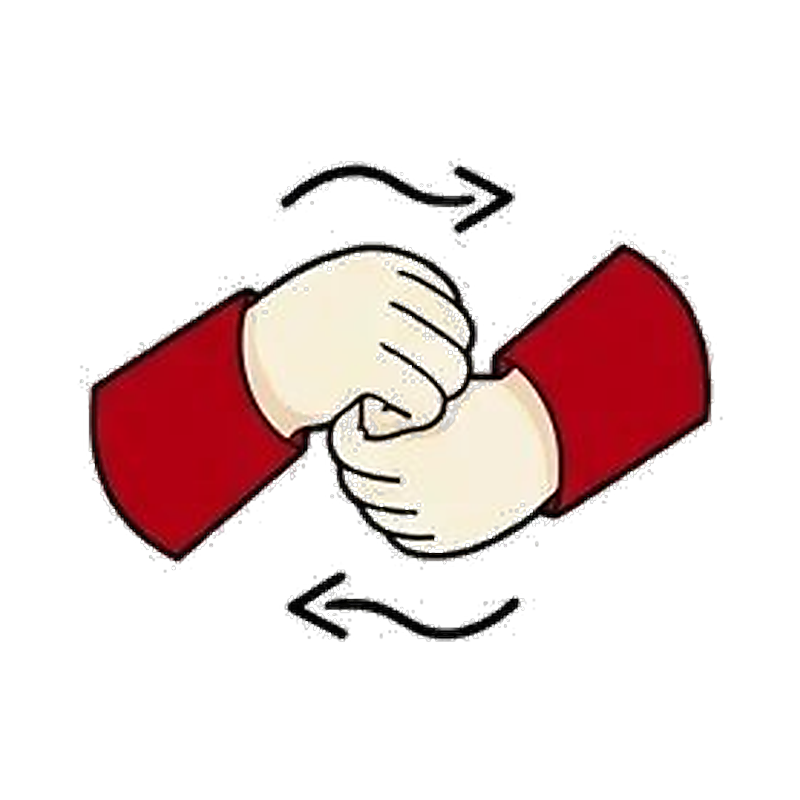
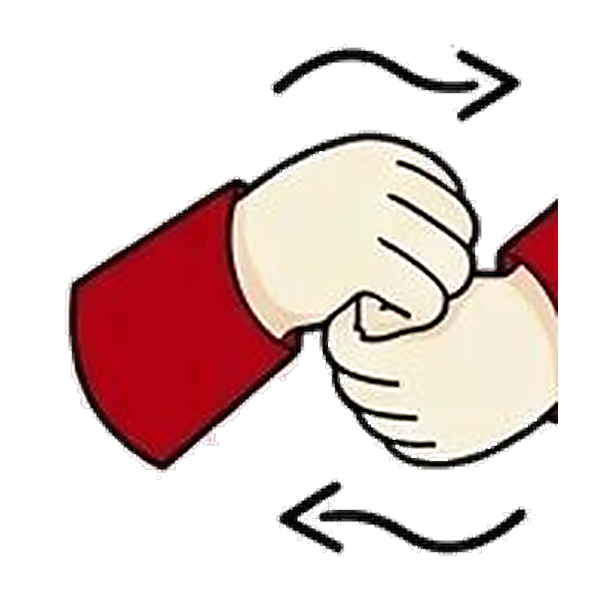
feat(dictionary): improve dictionary UI with clean edtech design, HD signs without text crop, and modern upcoming modules

Changed region(s): [[0.09, 0.06, 0.93, 0.93]]

diff --git a/src/pages/DashboardPage.jsx b/src/pages/DashboardPage.jsx
@@ -3238,37 +3238,36 @@ const DashboardPage = () => {
           {activeMenu === 'kamus' && (
             <div className="flex-1 overflow-y-auto p-4 sm:p-8 pb-28">
               <div className="max-w-5xl mx-auto w-full space-y-6">
-                {/* Header Banner Kamus */}
+                {/* Header Banner Kamus Modern & Clean */}
                 <motion.div
                   initial={{ opacity: 0, y: 12 }}
                   animate={{ opacity: 1, y: 0 }}
-                  className="bg-white/95 backdrop-blur-md border-2 border-[#EBEBEB] rounded-[32px] p-6 sm:p-8 shadow-sm flex flex-col md:flex-row items-center justify-between gap-6"
+                  className="bg-white/95 backdrop-blur-md border border-gray-200/90 rounded-3xl p-6 sm:p-8 shadow-[0_10px_30px_rgba(0,0,0,0.04)] flex flex-col md:flex-row items-center justify-between gap-6"
                 >
                   <div className="space-y-2 text-center md:text-left">
-                    <span className="px-3 py-1 rounded-full bg-[#FFF0F0] text-xs font-black text-[#E02424] uppercase tracking-wider flex items-center gap-1.5 w-fit">
+                    <div className="inline-flex items-center gap-2 px-3 py-1 rounded-full bg-rose-50 border border-rose-100 text-xs font-black text-[#E02424] tracking-wide">
                       <svg className="w-3.5 h-3.5 text-[#E02424]" fill="none" stroke="currentColor" viewBox="0 0 24 24">
                         <path strokeLinecap="round" strokeLinejoin="round" strokeWidth="2" d="M12 6.253v13m0-13C10.832 5.477 9.246 5 7.5 5S4.168 5.477 3 6.253v13C4.168 18.477 5.754 18 7.5 18s3.332.477 4.5 1.253m0-13C13.168 5.477 14.754 5 16.5 5c1.747 0 3.332.477 4.5 1.253v13C19.832 18.477 18.247 18 16.5 18c-1.746 0-3.332.477-4.5 1.253" />
                       </svg>
                       <span>Ensiklopedia Visual BISINDO</span>
-                    </span>
-                    <h1 className="text-2xl sm:text-3xl font-black text-[#2B2B2B] tracking-tight">
+                    </div>
+                    <h1 className="text-2xl sm:text-3xl font-black text-gray-900 tracking-tight">
                       Kamus Bentuk Tangan BISINDO
                     </h1>
-                    <p className="text-xs sm:text-sm text-gray-500 font-bold max-w-xl">
-                      Kumpulan seluruh gestur dan ejaan bahasa isyarat dari Level 1 hingga Level 6.
-                      Pelajari detail bentuk jari, makna, dan praktikkan langsung ke kamera!
+                    <p className="text-xs sm:text-sm text-gray-500 font-bold max-w-xl leading-relaxed">
+                      Eksplorasi gestur, ejaan abjad jari, dan sapaan bahasa isyarat standar BISINDO dengan ilustrasi beresolusi tinggi yang tajam dan presisi.
                     </p>
                   </div>
 
                   {/* Input Pencarian Kata / Huruf */}
-                  <div className="w-full md:w-72">
+                  <div className="w-full md:w-80">
                     <div className="relative">
                       <input
                         type="text"
                         value={dictionarySearch}
                         onChange={(e) => setDictionarySearch(e.target.value)}
                         placeholder="Cari huruf atau isyarat..."
-                        className="w-full pl-10 pr-4 py-3 rounded-2xl bg-[#F7F7F7] border-2 border-[#EAEAEA] focus:border-[#E02424] text-xs font-bold text-gray-800 placeholder-gray-400 outline-none transition"
+                        className="w-full pl-10 pr-4 py-3 rounded-2xl bg-gray-50/80 border border-gray-200 focus:bg-white focus:border-[#E02424] text-xs font-bold text-gray-800 placeholder-gray-400 outline-none transition shadow-inner"
                       />
                       <span className="absolute left-3.5 top-1/2 -translate-y-1/2 text-gray-400">
                         <svg className="w-4 h-4" fill="none" stroke="currentColor" viewBox="0 0 24 24">
@@ -3279,8 +3278,8 @@ const DashboardPage = () => {
                   </div>
                 </motion.div>
 
-                {/* Tabs Modul Level 1 - 6 Tanpa Emoticon / Emoji */}
-                <div className="flex items-center gap-2 overflow-x-auto pb-2 scrollbar-none">
+                {/* Segmented Filter Modul Level 1 - 6 */}
+                <div className="bg-white/80 backdrop-blur-md border border-gray-200/80 p-2 rounded-2xl flex items-center gap-2 overflow-x-auto scrollbar-none shadow-xs">
                   {DICTIONARY_MODULES.map((mod) => {
                     const isSelected = selectedDictModuleId === mod.id && !dictionarySearch
                     return (
@@ -3290,16 +3289,24 @@ const DashboardPage = () => {
                           setSelectedDictModuleId(mod.id)
                           setDictionarySearch('')
                         }}
-                        className={`px-4 py-2.5 rounded-2xl text-xs font-black shrink-0 flex items-center gap-2 transition cursor-pointer border-2 relative ${
+                        className={`px-4 py-2.5 rounded-xl text-xs font-black shrink-0 flex items-center gap-2 transition cursor-pointer ${
                           isSelected
-                            ? 'bg-[#E02424] text-white border-[#E02424] shadow-md shadow-red-200'
-                            : 'bg-white/90 text-gray-600 border-[#EAEAEA] hover:border-gray-300'
+                            ? 'bg-[#E02424] text-white shadow-sm'
+                            : 'text-gray-600 hover:text-gray-900 hover:bg-gray-100/70'
                         }`}
                       >
                         <span>{mod.badge}</span>
-                        {mod.isComingSoon && (
-                          <span className="text-[9px] font-black uppercase px-1.5 py-0.5 rounded-md bg-amber-400 text-amber-950 ml-1">
-                            Soon
+                        {mod.isComingSoon ? (
+                          <span className={`text-[10px] font-black uppercase px-2 py-0.5 rounded-md ${
+                            isSelected ? 'bg-white/20 text-white' : 'bg-amber-100 text-amber-800'
+                          }`}>
+                            Segera
+                          </span>
+                        ) : (
+                          <span className={`text-[10px] font-bold px-2 py-0.5 rounded-md ${
+                            isSelected ? 'bg-white/20 text-white' : 'bg-gray-100 text-gray-500'
+                          }`}>
+                            {mod.entries.length} Isyarat
                           </span>
                         )}
                       </button>
@@ -3307,23 +3314,28 @@ const DashboardPage = () => {
                   })}
                 </div>
 
-                {/* Banner Coming Soon Khusus Modul 3 - 6 */}
+                {/* Banner Status Modul Coming Soon */}
                 {!dictionarySearch && selectedDictModuleId >= 3 && (
                   <motion.div
-                    initial={{ opacity: 0, scale: 0.98 }}
-                    animate={{ opacity: 1, scale: 1 }}
-                    className="w-full bg-white/95 backdrop-blur-md border border-gray-200 rounded-3xl p-6 sm:p-7 text-center shadow-xs"
+                    initial={{ opacity: 0, y: 8 }}
+                    animate={{ opacity: 1, y: 0 }}
+                    className="w-full bg-gradient-to-r from-slate-900 via-gray-900 to-slate-900 text-white rounded-3xl p-6 sm:p-7 shadow-sm border border-gray-800 flex flex-col sm:flex-row items-center justify-between gap-4"
                   >
-                    <div className="inline-flex items-center gap-2 px-3 py-1 rounded-full bg-gray-100 text-gray-700 font-black text-xs uppercase tracking-wider mb-2">
-                      <span className="w-2 h-2 rounded-full bg-amber-500 animate-pulse" />
-                      <span>Tahap Pengembangan</span>
+                    <div className="space-y-1.5 text-center sm:text-left">
+                      <div className="inline-flex items-center gap-2 px-3 py-1 rounded-full bg-white/10 text-amber-300 font-black text-[11px] uppercase tracking-wider">
+                        <span className="w-2 h-2 rounded-full bg-amber-400 animate-pulse" />
+                        <span>Koleksi Mendatang • {DICTIONARY_MODULES.find(m => m.id === selectedDictModuleId)?.title}</span>
+                      </div>
+                      <h3 className="text-lg sm:text-xl font-black text-white">
+                        Silabus & Kosakata Sedang Dipersiapkan
+                      </h3>
+                      <p className="text-xs text-gray-300 font-medium max-w-xl">
+                        Daftar materi berikut dirancang bersama mitra pengajar Tuli. Panduan animasi visual 3D dan kartu isyarat interaktif akan dirilis secara bertahap.
+                      </p>
                     </div>
-                    <h3 className="text-lg sm:text-xl font-black text-gray-800">
-                      Materi Modul {selectedDictModuleId} Sedang Disiapkan
-                    </h3>
-                    <p className="text-xs font-bold text-gray-500 max-w-lg mx-auto mt-1.5 leading-relaxed">
-                      Koleksi gestur tangan interaktif untuk modul ini akan segera dirilis. Kamu dapat melihat daftar kosakata di bawah sebagai referensi awal pembelajaran.
-                    </p>
+                    <div className="shrink-0 px-4 py-2 rounded-xl bg-white/10 border border-white/20 text-xs font-bold text-gray-200">
+                      Rilis Mendatang
+                    </div>
                   </motion.div>
                 )}
 
@@ -3339,7 +3351,7 @@ const DashboardPage = () => {
                           en.word.toLowerCase().includes(q) ||
                           en.desc.toLowerCase().includes(q)
                         ) {
-                          activeEntries.push({ ...en, moduleBadge: mod.badge })
+                          activeEntries.push({ ...en, moduleBadge: mod.badge, isComingSoon: mod.isComingSoon })
                         }
                       })
                     })
@@ -3347,20 +3359,24 @@ const DashboardPage = () => {
                     const curMod =
                       DICTIONARY_MODULES.find((m) => m.id === selectedDictModuleId) ||
                       DICTIONARY_MODULES[0]
-                    activeEntries = curMod.entries.map((en) => ({ ...en, moduleBadge: curMod.badge }))
+                    activeEntries = curMod.entries.map((en) => ({
+                      ...en,
+                      moduleBadge: curMod.badge,
+                      isComingSoon: curMod.isComingSoon,
+                    }))
                   }
 
                   if (activeEntries.length === 0) {
                     return (
-                      <div className="bg-white/90 rounded-3xl p-12 text-center border-2 border-[#EBEBEB]">
+                      <div className="bg-white/95 rounded-3xl p-12 text-center border border-gray-200/90 shadow-sm">
                         <div className="w-12 h-12 rounded-2xl bg-gray-100 flex items-center justify-center text-gray-400 mx-auto mb-3">
                           <svg className="w-6 h-6" fill="none" stroke="currentColor" viewBox="0 0 24 24">
                             <path strokeLinecap="round" strokeLinejoin="round" strokeWidth="2" d="M21 21l-6-6m2-5a7 7 0 11-14 0 7 7 0 0114 0z" />
                           </svg>
                         </div>
-                        <h3 className="text-base font-black text-gray-700">Tidak ada isyarat ditemukan</h3>
+                        <h3 className="text-base font-black text-gray-800">Tidak ada isyarat ditemukan</h3>
                         <p className="text-xs text-gray-400 font-bold mt-1">
-                          Coba gunakan kata kunci pencarian lain.
+                          Coba gunakan kata kunci pencarian yang lain.
                         </p>
                       </div>
                     )
@@ -3369,41 +3385,39 @@ const DashboardPage = () => {
                   return (
                     <div className="grid grid-cols-2 sm:grid-cols-3 md:grid-cols-4 gap-4">
                       {activeEntries.map((item, idx) => {
-                        const isSecretComingSoon = !dictionarySearch && selectedDictModuleId >= 3
+                        const isSecretComingSoon = item.isComingSoon
 
                         return (
                           <motion.div
                             key={`${item.letter}-${idx}`}
-                            initial={{ opacity: 0, scale: 0.95 }}
-                            animate={{ opacity: 1, scale: 1 }}
+                            initial={{ opacity: 0, y: 10 }}
+                            animate={{ opacity: 1, y: 0 }}
                             transition={{ delay: idx * 0.02 }}
-                            whileHover={{ y: -4 }}
-                            className="bg-white/95 backdrop-blur-sm border-2 border-[#EBEBEB] hover:border-[#E02424] rounded-3xl p-4 shadow-sm hover:shadow-lg transition-all flex flex-col justify-between group"
+                            className="bg-white/95 backdrop-blur-sm border border-gray-200/90 hover:border-[#E02424]/60 rounded-3xl p-4 shadow-[0_4px_16px_rgba(0,0,0,0.03)] hover:shadow-[0_10px_25px_rgba(224,36,36,0.08)] transition-all flex flex-col justify-between group"
                           >
                             <div>
-                              <div className="flex items-center justify-between mb-2">
-                                <span className="text-[10px] font-black uppercase tracking-wider px-2 py-0.5 rounded-full bg-rose-50 text-rose-600 border border-rose-200">
+                              <div className="flex items-center justify-between mb-2.5">
+                                <span className="text-[10px] font-black uppercase tracking-wider px-2 py-0.5 rounded-md bg-gray-100 text-gray-600">
                                   {item.moduleBadge || item.category}
                                 </span>
-                                <span className="text-xs font-black text-gray-400 group-hover:text-[#E02424] transition">
+                                <span className="text-[11px] font-black text-gray-400 group-hover:text-[#E02424] transition">
                                   BISINDO
                                 </span>
                               </div>
 
-                              {/* Gambar Isyarat HD Utuh Persegi Simetris (atau Tampilan Misteri Coming Soon) */}
-                              <div className="w-full aspect-square rounded-2xl bg-[#FFF6F6] p-3 flex items-center justify-center border border-rose-100 mb-3 shadow-inner group-hover:bg-[#FFF0F0] transition relative overflow-hidden">
+                              {/* Gambar Isyarat HD Utuh Persegi Simetris */}
+                              <div className="w-full aspect-square rounded-2xl bg-gray-50/80 p-3.5 flex items-center justify-center border border-gray-100 mb-3 group-hover:bg-rose-50/30 transition relative overflow-hidden">
                                 {isSecretComingSoon ? (
-                                  /* UI Rahasia & Estetik untuk Isyarat Coming Soon */
-                                  <div className="w-full h-full rounded-xl bg-gradient-to-br from-amber-50 to-orange-50 border border-amber-200 flex flex-col items-center justify-center p-3 text-center">
-                                    <div className="w-12 h-12 rounded-2xl bg-white border border-amber-200 shadow-sm flex items-center justify-center mb-1 text-amber-600">
+                                  <div className="w-full h-full rounded-xl bg-gradient-to-br from-gray-50 to-slate-100 border border-gray-200 flex flex-col items-center justify-center p-3 text-center">
+                                    <div className="w-10 h-10 rounded-xl bg-white border border-gray-200 shadow-xs flex items-center justify-center mb-1.5 text-gray-500">
                                       <svg className="w-5 h-5" fill="none" stroke="currentColor" viewBox="0 0 24 24">
                                         <path strokeLinecap="round" strokeLinejoin="round" strokeWidth="2" d="M12 15v2m-6 4h12a2 2 0 002-2v-6a2 2 0 00-2-2H6a2 2 0 00-2 2v6a2 2 0 002 2zm10-10V7a4 4 0 00-8 0v4h8z" />
                                       </svg>
                                     </div>
-                                    <span className="text-[10px] font-black text-amber-700 uppercase tracking-wider">
-                                      Dirahasiakan
+                                    <span className="text-[10px] font-black text-gray-700 uppercase tracking-wider">
+                                      Materi Rilis
                                     </span>
-                                    <span className="text-[9px] font-bold text-amber-600/80 mt-0.5">
+                                    <span className="text-[9px] font-bold text-gray-400 mt-0.5">
                                       Segera Hadir
                                     </span>
                                   </div>
@@ -3411,34 +3425,37 @@ const DashboardPage = () => {
                                   <img
                                     src={item.signImg}
                                     alt={item.word}
-                                    className="w-full h-full object-contain filter drop-shadow group-hover:scale-105 transition-transform duration-300"
+                                    className="w-full h-full object-contain filter drop-shadow-sm group-hover:scale-105 transition-transform duration-300"
+                                    loading="lazy"
                                   />
                                 )}
                               </div>
 
-                              <h3 className="text-base font-black text-[#2B2B2B] text-center mb-1">
+                              <h3 className="text-sm sm:text-base font-black text-gray-900 text-center mb-1">
                                 {item.word}
                               </h3>
-                              <p className="text-[11px] font-bold text-gray-500 text-center leading-relaxed line-clamp-3">
+                              <p className="text-[11px] font-medium text-gray-500 text-center leading-relaxed line-clamp-3">
                                 {isSecretComingSoon
-                                  ? 'Bentuk gestur tangan dan video interaktif untuk materi ini akan segera dirilis.'
+                                  ? 'Panduan gestur dan video interaktif untuk kosakata ini sedang difinalisasi.'
                                   : item.desc}
                               </p>
                             </div>
 
                             {isSecretComingSoon ? (
-                              <div className="mt-3 w-full py-2.5 rounded-xl bg-gray-100 border border-gray-200 text-gray-500 text-[10px] font-black uppercase tracking-wider text-center">
-                                SEGERA DIBUKA
+                              <div className="mt-3.5 w-full py-2.5 rounded-xl bg-gray-100 border border-gray-200/80 text-gray-500 text-[10px] font-black uppercase tracking-wider text-center">
+                                Segera Hadir
                               </div>
                             ) : (
                               <button
                                 onClick={() => {
                                   navigate(`/training/${item.letter}`)
                                 }}
-                                className="mt-3 w-full py-2 rounded-xl bg-gray-50 hover:bg-[#E02424] text-gray-700 hover:text-white text-[11px] font-black uppercase tracking-wider transition cursor-pointer border border-gray-200 hover:border-[#E02424] flex items-center justify-center gap-1.5"
+                                className="mt-3.5 w-full py-2.5 rounded-xl bg-rose-50 hover:bg-[#E02424] text-[#E02424] hover:text-white text-xs font-black uppercase tracking-wider transition cursor-pointer border border-rose-200/80 hover:border-[#E02424] flex items-center justify-center gap-1.5 shadow-2xs"
                               >
                                 <span>Latih Isyarat</span>
-                                <span className="text-[10px]">▶</span>
+                                <svg className="w-3.5 h-3.5" fill="none" stroke="currentColor" viewBox="0 0 24 24">
+                                  <path strokeLinecap="round" strokeLinejoin="round" strokeWidth="2.5" d="M9 5l7 7-7 7" />
+                                </svg>
                               </button>
                             )}
                           </motion.div>
